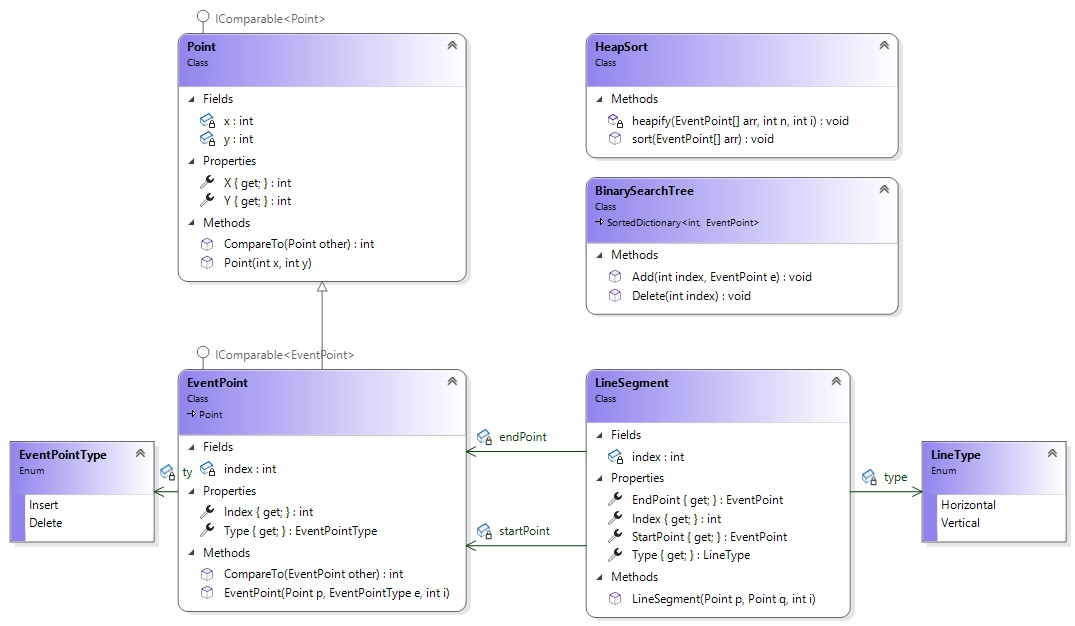
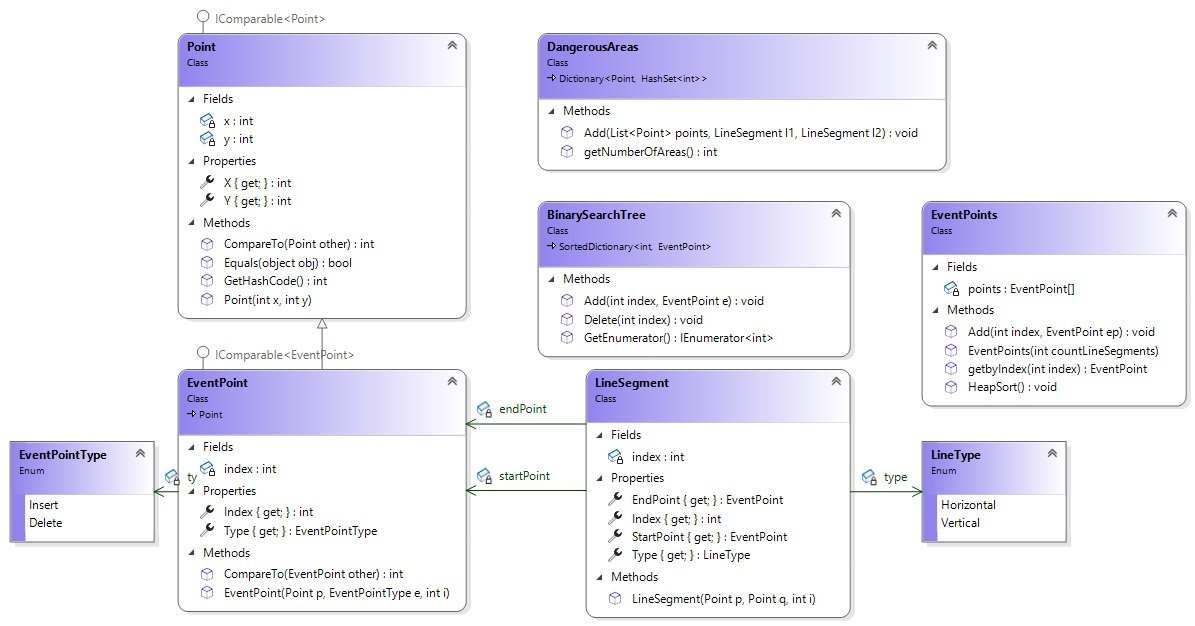
Update

Changed region(s): [[0.0, 0.0, 1.0, 1.0], [0.8288, 0.0607, 0.8595, 0.2428], [0.0, 0.7891, 0.0614, 0.8802]]

diff --git a/Sweepline_v0/Program.cs b/Sweepline_v0/Program.cs
@@ -2,29 +2,41 @@
 using Sweepline_v0;
 
 Console.WriteLine("Hello, World!");
-Point p1 = new Point(0, 9);
-Point p2 = new Point(5, 9);
+//[12:43] Marco Kiltz
+//    0,9,1 -> 5,9,1
+//8,0,2 -> 0,8,2
+//9,4,1 -> 3,4,1
+//2,2,3 -> 2,1,3
+//7,0,2 -> 7,4,2
+//6,4,1 -> 2,0,1
+//0,9,1 -> 2,9,1
+//3,4,2 -> 1,4,2
+//0,0,2 -> 8,8,2
+//5,5,1 -> 8,2,1
+
+Point p1 = new Point(0, 9, 1);
+Point p2 = new Point(5, 9, 1);
 
 //Point p3 = new Point(8, 0);
 //Point p4 = new Point(0, 8);
 
-Point p5 = new Point(9, 4);
-Point p6 = new Point(3, 4);
+Point p5 = new Point(9, 4, 1);
+Point p6 = new Point(3, 4, 1);
 
-Point p7 = new Point(2, 2);
-Point p8 = new Point(2, 1);
+Point p7 = new Point(2, 2, 3);
+Point p8 = new Point(2, 1, 3);
 
-Point p9 = new Point(7, 0);
-Point p10 = new Point(7, 4);
+Point p9 = new Point(3, 0, 2);
+Point p10 = new Point(3, 4, 2);
 
 //Point p11 = new Point(6, 4);
 //Point p12 = new Point(2, 0);
 
-Point p13 = new Point(0, 9);
-Point p14 = new Point(2, 9);
+Point p13 = new Point(0, 9, 1);
+Point p14 = new Point(2, 9, 1);
 
-Point p15 = new Point(3, 4);
-Point p16 = new Point(1, 4);
+Point p15 = new Point(3, 4, 2);
+Point p16 = new Point(1, 4, 2);
 
 //Point p17 = new Point(0, 0);
 //Point p18 = new Point(8, 8);
@@ -33,7 +45,9 @@ Point p16 = new Point(1, 4);
 //Point p20 = new Point(8, 2);
 
 
-LineSegment l1 = new LineSegment(p1, p2,0);
+
+LineSegment l1 = new LineSegment(p1, p2, 0);
+
 //LineSegment l2 = new LineSegment(p3, p4, 1);
 LineSegment l3 = new LineSegment(p5, p6, 1);
 LineSegment l4 = new LineSegment(p7, p8, 2);
@@ -51,6 +65,7 @@ lineSegments.Add(l4.Index, l4);
 lineSegments.Add(l5.Index, l5);
 lineSegments.Add(l7.Index, l7);
 lineSegments.Add(l8.Index, l8);
+
 //List<LineSegment> lineSegments = new List<LineSegment>() { l1, l3, l4, l5, l7, l8};
 
 EventPoint[] arr = new EventPoint[lineSegments.Count()*2];
@@ -63,8 +78,7 @@ HeapSort.sort(arr);
 
 BinarySearchTree map = new BinarySearchTree();
 
-//List<EventPoint> list = new List<EventPoint>();
-List<Point> intersectionPoints = new List<Point>();
+DangerousAreas dangerousArea = new DangerousAreas();
 
 
 
@@ -73,7 +87,8 @@ List<Point> intersectionPoints = new List<Point>();
 for (int i = 0; i < arr.Count(); i++)
 {
     EventPoint e = arr[i];
-    if(e.Type == EventPointType.Insert)
+    Console.WriteLine("(" +e.X+", "+e.Y+", "+e.Type.ToString()+ ", " + e.Index+")");
+    if (e.Type == EventPointType.Insert)
     {
         if(map.Count>0)
         {
@@ -81,7 +96,11 @@ for (int i = 0; i < arr.Count(); i++)
             foreach (KeyValuePair<int, EventPoint> kv in map)
             {
                 LineSegment ls2 = lineSegments[kv.Key];
-                intersectionPoints.AddRange(Intersection.IsIntersect(ls1, ls2));
+                if(ls1.StartPoint.Z == ls2.StartPoint.Z)
+                {
+                    List<Point> intersectionPoints = Intersection.IsIntersect(ls1, ls2);
+                    dangerousArea.Add(intersectionPoints, ls1, ls2);
+                }
             }
         }
 

diff --git a/Sweepline_v0/Point.cs b/Sweepline_v0/Point.cs
@@ -10,13 +10,16 @@ namespace Sweepline_v0
     {
         private int x;
         private int y;
+        private int z;
         public int X { get { return x; } }
         public int Y { get { return y; } }
+        public int Z { get { return z; } }
 
-        public Point(int x, int y)
+        public Point(int x, int y, int z)
         {
             this.x = x;
             this.y = y;
+            this.z = z;
         }
 
         public int CompareTo(Point? other)
@@ -27,7 +30,31 @@ namespace Sweepline_v0
                 return 1;
             if (y.CompareTo(other.y) < 0)
                 return 1;
+            if (y.CompareTo(other.z) < 0)
+                return 1;
             return 0;
+        }
+        public override bool Equals(Object obj)
+        {
+            Point key = obj as Point;
+
+            if (key == null)
+                return false;
+
+            return X.Equals(key.X) &&
+                   Y.Equals(key.Y) && z.Equals(key.z);
+        }
+        public override int GetHashCode()
+        {
+            unchecked // Overflow is fine, just wrap
+            {
+                int hash = (int)2166136261;
+                // Suitable nullity checks etc, of course :)
+                hash = hash * 16777619 ^ X.GetHashCode();
+                hash = hash * 16777619 ^ Y.GetHashCode();
+                hash = hash * 16777619 ^ Z.GetHashCode();
+                return hash;
+            }
         }
     }
 }

diff --git a/Sweepline_v0/Intersection.cs b/Sweepline_v0/Intersection.cs
@@ -44,7 +44,7 @@ namespace Sweepline_v0
             {
                 if(VerticalLine.StartPoint.X <= horiontalLine.EndPoint.X && VerticalLine.StartPoint.X >= horiontalLine.StartPoint.X)
                 {
-                    return new Point(VerticalLine.StartPoint.X, horiontalLine.StartPoint.Y);
+                    return new Point(VerticalLine.StartPoint.X, horiontalLine.StartPoint.Y, horiontalLine.StartPoint.Z);
                 }
             }
             return null;
@@ -59,7 +59,7 @@ namespace Sweepline_v0
                 int maxX = Math.Min(horiontalLine1.EndPoint.X, horiontalLine2.EndPoint.X);
             
                 for (int x = minX; x <= maxX; x++)
-                    points.Add(new Point(x, y));
+                    points.Add(new Point(x, y, horiontalLine1.StartPoint.Z));
             }
             return points;
         }
@@ -74,7 +74,7 @@ namespace Sweepline_v0
                 int maxY = Math.Min(VerticalLine1.EndPoint.Y, VerticalLine2.EndPoint.Y);
             
                 for (int y = minY; y <= maxY; y++)
-                    points.Add(new Point(x, y));
+                    points.Add(new Point(x, y, VerticalLine1.StartPoint.Z));
             }
             
             return points;

diff --git a/Sweepline_v0/EventPoint.cs b/Sweepline_v0/EventPoint.cs
@@ -13,7 +13,7 @@ namespace Sweepline_v0
         private int index;
         public int Index { get { return index; } }
         public EventPointType Type { get { return type; } }
-        public EventPoint(Point p, EventPointType e,int i) : base(p.X,p.Y)
+        public EventPoint(Point p, EventPointType e,int i) : base(p.X,p.Y, p.Z)
         {
             type = e;
             index = i;
@@ -23,7 +23,7 @@ namespace Sweepline_v0
             if (other == null)
                 throw new ArgumentNullException("other can not be NULL");
 
-            List<string> properties = new List<string> { "X", "Y", "Type" };
+            List<string> properties = new List<string> { "X", "Y", "Z", "Type" };
             //List<int> returnValues = new List<int> { 1, -1, 1 };
             foreach (string prop in properties)
             {

diff --git a/Sweepline_v0/DangerousAreas.cs b/Sweepline_v0/DangerousAreas.cs
@@ -1,0 +1,26 @@
+using System;
+using System.Collections.Generic;
+using System.Linq;
+using System.Text;
+using System.Threading.Tasks;
+
+namespace Sweepline_v0
+{
+    internal class DangerousAreas:Dictionary<Point,HashSet<int>>
+    {
+        public void Add(List<Point> points, LineSegment l1, LineSegment l2)
+        {
+            foreach (Point point in points)
+            {
+                if(!this.ContainsKey(point))
+                    this.Add(point, new HashSet<int>());
+                this[point].Add(l1.Index);
+                this[point].Add(l2.Index);
+            }
+        }
+        public int getNumberOfAreas()
+        {
+            return this.Keys.Count;
+        }
+    }
+}

diff --git a/Sweepline_v0/EventPoints.cs b/Sweepline_v0/EventPoints.cs
@@ -1,0 +1,29 @@
+using System;
+using System.Collections.Generic;
+using System.Linq;
+using System.Text;
+using System.Threading.Tasks;
+
+namespace Sweepline_v0
+{
+    internal class EventPoints
+    {
+        private EventPoint[] points;
+        public EventPoints(int countLineSegments)
+        {
+            points = new EventPoint[countLineSegments*2];
+        }
+        public void Add(int index, EventPoint ep)
+        {
+            points[index] = ep;
+        }
+        public EventPoint getbyIndex(int index)
+        {
+            return points[index];
+        }
+        public void HeapSort()
+        {
+
+        }
+    }
+}

diff --git a/Sweepline_v0/LineSegment.cs b/Sweepline_v0/LineSegment.cs
@@ -17,6 +17,10 @@ namespace Sweepline_v0
         public EventPoint EndPoint { get { return endPoint; } }
         public LineSegment(Point p, Point q,int i)
         {
+            if(p.Z != q.Z)
+            {
+                throw new Exception("Zs are not valid");
+            }
             index = i;
             type = (p.X == q.X) ? LineType.Vertical : LineType.Horizontal;
             if (p.CompareTo(q) > 0)

diff --git a/Sweepline_v0/BinarySearchTree.cs b/Sweepline_v0/BinarySearchTree.cs
@@ -16,5 +16,6 @@ namespace Sweepline_v0
         {
             base.Remove(index);
         }
+
     }
 }
